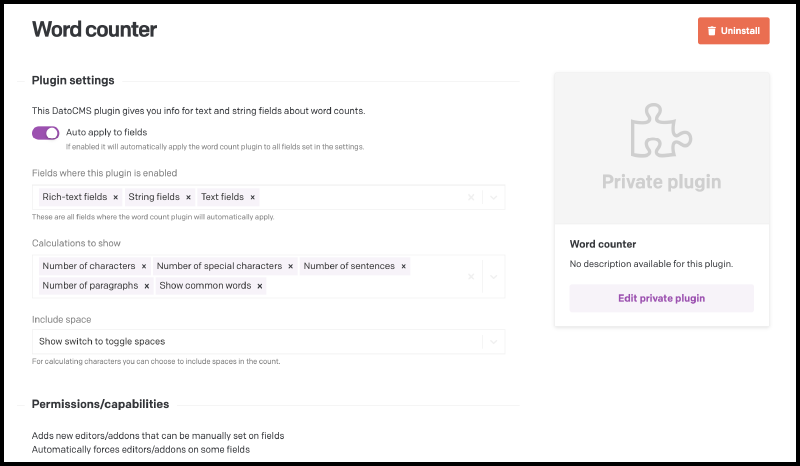
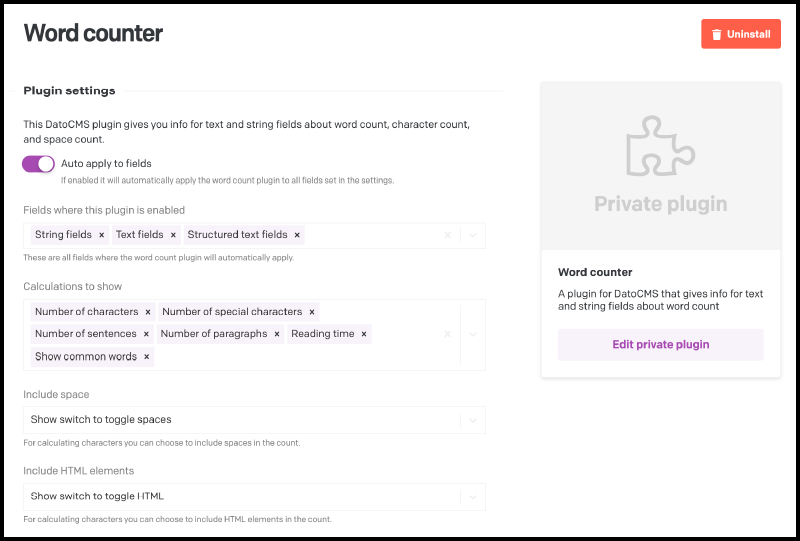
feat(README.md): add new settings documentation

diff --git a/README.md b/README.md
@@ -57,6 +57,13 @@ By changing the following setting you can choose on which fields this plugin wil
 > * Always include spaces
 > * Never include spaces
 
+- **Include HMTL elements (select)**: You can choose if html elements are taken into account in the calculations shown in the plugin. The default `Show switch to toggle HTML elements` will show a switch to let the user choose themselves.
+
+> Options of `Include HTML elements`:
+> * Show switch to HTML elements
+> * Always include HTML elements
+> * Never include HTML elements
+
 #### **Expose word count**
 
 With this word counter plugin you can expose the word count results in the API. To do this you have to specify a new field in the model where the word counter is implemented. The field that is added will automatically be hidden, but will still be exposed in the API.
